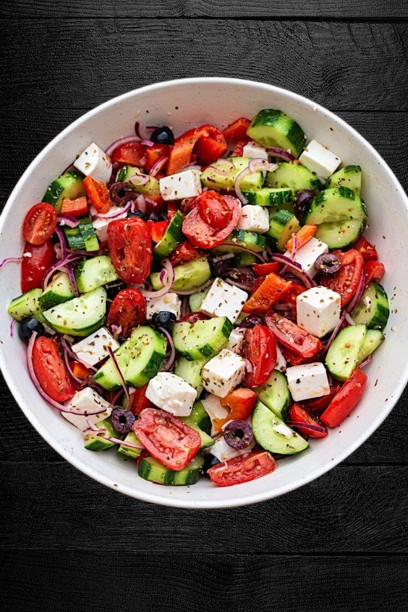
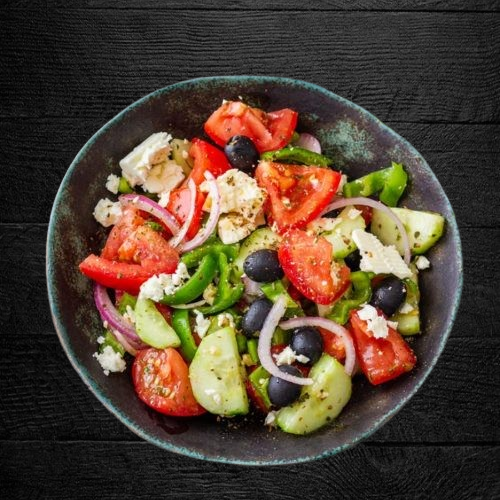
Chnges in the styling of the cards also finished all the starterts food

diff --git a/HTML/menu.html b/HTML/menu.html
@@ -56,7 +56,7 @@
 
   
 
-  <section class="divider pt-10 pb-5">
+  <section class="divider">
     <div class="container">
         <div class="d-flex flex-nowrap justify-content-center gap-2 flex-wrap-sm">
             <button type="button" class="btn btn-dark px-4 py-3 ">Starters</button>
@@ -74,47 +74,72 @@
   <div class="container">
     <div class="row g-4 justify-content-center">
 
-      <!-- Cherry Tomato Bruschetta -->
       <div class="col-12 col-sm-6 col-md-4 col-lg-3">
-        <div class="card text-center border border-white h-100">
-          <div class="ratio ratio-1x1 p-3">
-            <img src="../photos/Menu/CherryTomatoBruschetta-min.png"
-                 class="img-fluid rounded card-img-cover"
-                 alt="Cherry Tomato Bruschetta">
-          </div>
-          <div class="card-body d-flex flex-column">
-            <h5 class="card-title">Cherry Tomato Bruschetta</h5>
-            <p class="card-text">Fresh toasted bread topped with creamy ricotta, juicy cherry tomatoes, and a touch of balsamic glaze.</p>
+        <div class="card  ">
+          <img src="../photos/Menu/ChickenWings.png" class="card-img-top" alt="ChickenWings">
+          <div class="card-body">
+            <h5 class="card-title">Chicken Wings</h5>
+            <p class="card-text">Juicy chicken wings tossed in a savory sauce. Perfectly crispy and full of flavor.</p>
           </div>
         </div>
       </div>
 
-      <!-- Caprese Salad -->
       <div class="col-12 col-sm-6 col-md-4 col-lg-3">
-        <div class="card text-center border border-white h-100">
-          <div class="ratio ratio-1x1 p-3">
-            <img src="../photos/Menu/CapreseSalad.png"
-                 class="img-fluid rounded card-img-cover"
-                 alt="Caprese Salad">
-          </div>
-          <div class="card-body d-flex flex-column">
+        <div class="card  ">
+          <img src="../photos/Menu/CapreseSalad.png" class="card-img-top" alt="Caprese Salad">
+          <div class="card-body">
             <h5 class="card-title">Caprese Salad</h5>
-            <p class="card-text">Fresh mozzarella, ripe tomatoes, and fragrant basil drizzled with extra virgin olive oil and a touch of balsamic glaze — a simple yet timeless Italian classic.</p>
+            <p class="card-text">Fresh mozzarella, ripe tomatoes, and basil. Drizzled with olive oil for a light, classic flavor.</p>
           </div>
         </div>
       </div>
 
-      <!-- Roasted Red Pepper Soup -->
       <div class="col-12 col-sm-6 col-md-4 col-lg-3">
-        <div class="card text-center border border-white h-100">
-          <div class="ratio ratio-1x1 p-3">
-            <img src="../photos/Menu/redpeppersoup.png"
-                 class="img-fluid rounded card-img-cover"
-                 alt="Roasted Red Pepper Soup">
+        <div class="card  ">
+          <img src="../photos/Menu/mozzarella-sticks.png" class="card-img-top" alt="mozzarella-sticks">
+          <div class="card-body">
+            <h5 class="card-title">Mozzarella Sticks</h5>
+            <p class="card-text">Crispy golden mozzarella sticks. Gooey cheese inside, served with marinara sauce.</p>
           </div>
-          <div class="card-body d-flex flex-column">
-            <h5 class="card-title">Roasted Red Pepper Soup</h5>
-            <p class="card-text">Smooth and velvety soup made from fire-roasted red peppers, blended with garlic, onions, and a hint of cream for a rich, smoky flavor.</p>
+        </div>
+      </div>
+
+    </div>
+  </div>
+
+
+
+
+
+  <div class="container mt-5">
+    <div class="row g-4 justify-content-center">
+
+      <div class="col-12 col-sm-6 col-md-4 col-lg-3">
+        <div class="card  ">
+          <img src="../photos/Menu/Mushroom-soup.png" class="card-img-top" alt="Mushroom-soup">
+          <div class="card-body">
+            <h5 class="card-title">Mushroom Soup</h5>
+            <p class="card-text">Creamy mushroom soup. Rich, earthy flavors in every spoonful.</p>
+          </div>
+        </div>
+      </div>
+
+      <div class="col-12 col-sm-6 col-md-4 col-lg-3">
+        <div class="card  ">
+          <img src="../photos/Menu/GreekSalad.png" class="card-img-top" alt="Caprese Salad">
+          <div class="card-body">
+            <h5 class="card-title">Greek Salad</h5>
+            <p class="card-text">Crisp vegetables, feta cheese, and olives. Tossed with a zesty olive oil dressing.</p>
+          </div>
+        </div>
+      </div>
+
+      <div class="col-12 col-sm-6 col-md-4 col-lg-3">
+        <div class="card  ">
+          <img src="../photos/Menu/RedPepperSoup.png" class="card-img-top" alt="mozzarella-sticks">
+          <div class="card-body">
+            <h5 class="card-title">Red Pepper Soup</h5>
+            <p class="card-text">"Roasted red pepper soup. Smooth, sweet, and slightly smoky."</p>
           </div>
         </div>
       </div>
@@ -122,6 +147,7 @@
     </div>
   </div>
 </section>
+
            
 
 

diff --git a/CSS/menu.css b/CSS/menu.css
@@ -17,8 +17,7 @@ div{
   }
 
 .divider{
-    /* width: 100%; */
-    height:70vh;
+    height:40vh;
     display: flex;
     align-items: center;
     justify-content: center;
@@ -26,14 +25,27 @@ div{
     padding: 0;   
 }
 
-.card-img-cover {
-  width: 100%;
+
+
+.card {
+  text-align: center;
   height: 100%;
-  object-fit: cover;
+  background-color: #180101; 
+  color: white;
 }
 
+.card:hover {
+  /* transform: scale(1.05); */
+  background-color: white;
+  border: #180101;
+  color: black;
+}
 
-
+.card img {
+  height: 250px; 
+  object-fit: cover; 
+  display: block;
+}
 body {
     box-sizing: border-box;
     margin: 0;
